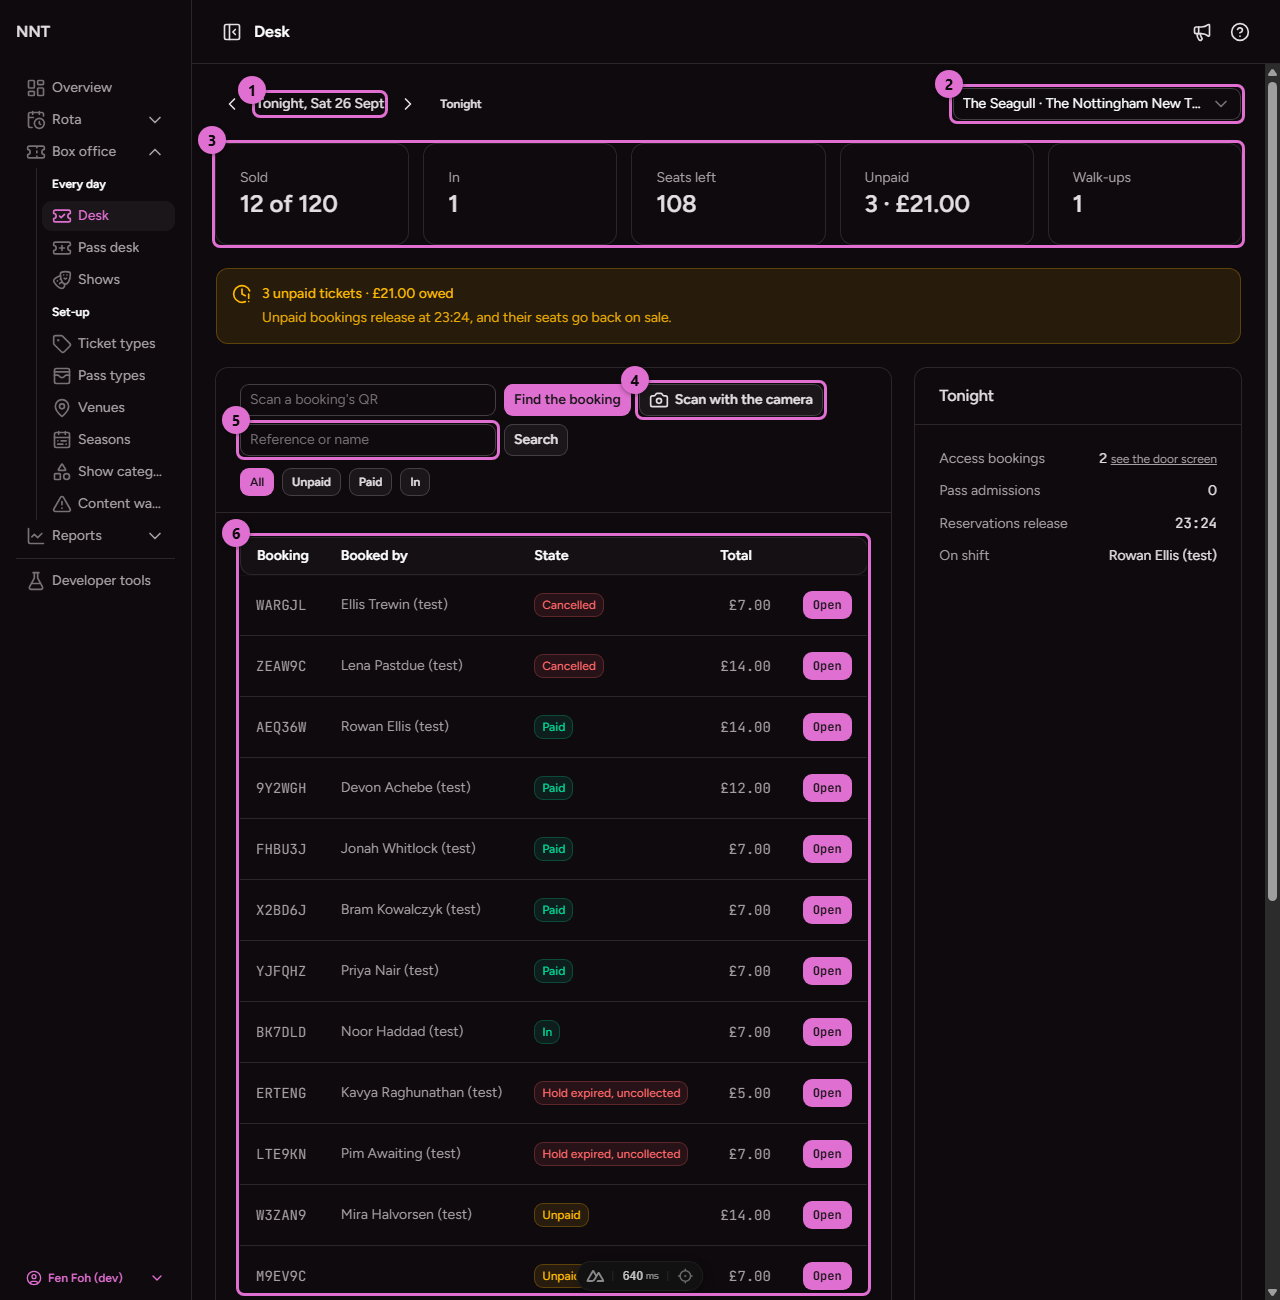
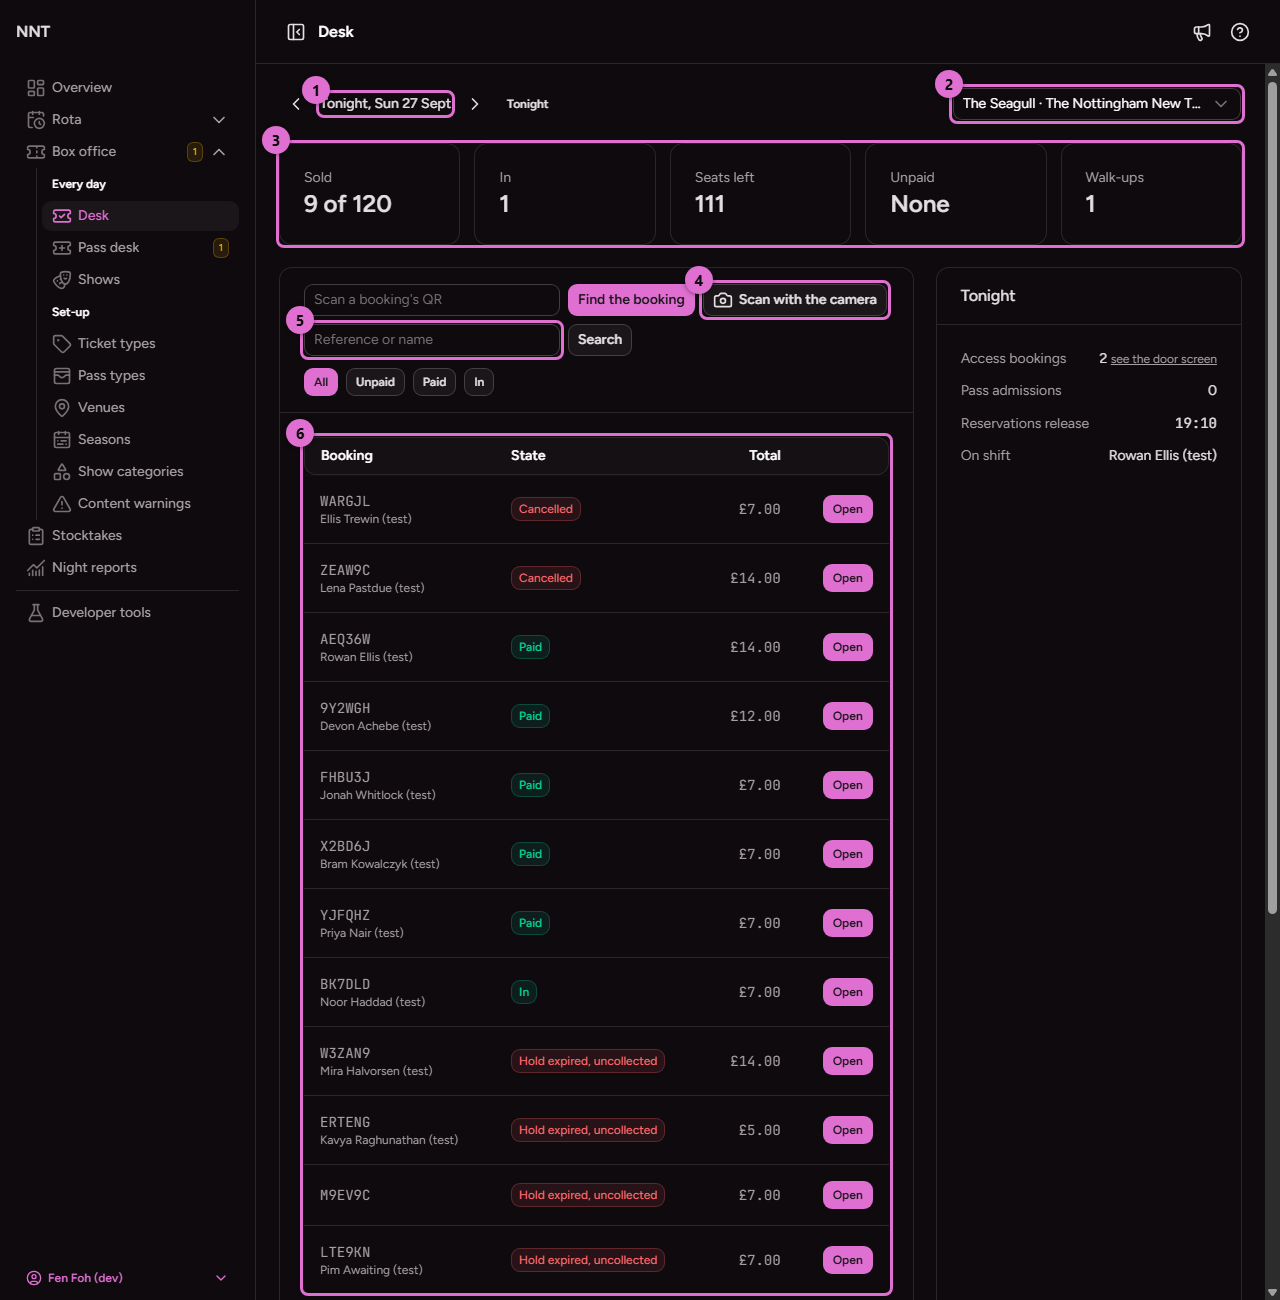
Move the desk total under the state on a phone, and retake the desk picture with every Open in view

diff --git a/app/pages/box-office/desk.vue b/app/pages/box-office/desk.vue
@@ -494,8 +494,8 @@ const resultColumns: TableColumn<SearchRow>[] = [
     meta: { class: { td: 'whitespace-normal' } },
     cell: ({ row }) => h('div', {}, [
       h('div', { class: 'font-mono' }, row.original.reference),
-      // While the table is narrow the booker is hidden: shown here instead, so the state, the total
-      // and Open stay in view beside the Tonight card and on a phone (K-123 criterion 10, issue 922).
+      // While the table is narrow its lesser columns carry over into the cells before them, so Open
+      // stays in view beside the Tonight card and on a phone (K-123 criterion 10, issue 922).
       h('div', { class: `${SHOW_BELOW_TABLE_2XL} text-xs text-muted` }, row.original.bookerName),
     ]),
   },
@@ -509,16 +509,19 @@ const resultColumns: TableColumn<SearchRow>[] = [
     id: 'status',
     header: 'State',
     meta: { class: { td: 'whitespace-normal' } },
-    // A pass booking owes nothing, so it reads as settled rather than unpaid (issue 1390).
-    cell: ({ row }) => byPass(row.original)
-      ? h(UBadge, { color: 'success', variant: 'subtle', ...WRAPPING_BADGE }, () => BY_PASS)
-      : h(UBadge, {
-          color: statusColor[row.original.status] ?? 'neutral',
-          variant: 'subtle',
-          ...WRAPPING_BADGE,
-        }, () => saysDeskStatus(row.original.status)),
+    cell: ({ row }) => h('div', {}, [
+      // A pass booking owes nothing, so it reads as settled rather than unpaid (issue 1390).
+      byPass(row.original)
+        ? h(UBadge, { color: 'success', variant: 'subtle', ...WRAPPING_BADGE }, () => BY_PASS)
+        : h(UBadge, {
+            color: statusColor[row.original.status] ?? 'neutral',
+            variant: 'subtle',
+            ...WRAPPING_BADGE,
+          }, () => saysDeskStatus(row.original.status)),
+      h('div', { class: `${SHOW_BELOW_TABLE_MD} mt-1 font-mono text-xs text-muted` }, saysPrice(row.original.totalPence)),
+    ]),
   },
-  { id: 'total', header: 'Total', meta: RIGHT_ALIGNED, cell: ({ row }) => saysPrice(row.original.totalPence) },
+  { id: 'total', header: 'Total', meta: RIGHT_ALIGNED_HIDE_BELOW_TABLE_MD, cell: ({ row }) => saysPrice(row.original.totalPence) },
   {
     id: 'act',
     header: ACTIONS_HEADER,

diff --git a/app/utils/responsive-table.ts b/app/utils/responsive-table.ts
@@ -18,6 +18,11 @@ export const RIGHT_ALIGNED_HIDE_BELOW_SM = { class: { th: `${HIDE_BELOW_SM} text
 // `@container`, and the primary cell's SHOW_BELOW_TABLE_2XL line carries what the column said.
 export const HIDE_BELOW_TABLE_2XL = 'hidden @2xl:table-cell'
 export const SHOW_BELOW_TABLE_2XL = '@2xl:hidden'
+export const HIDE_BELOW_TABLE_MD = 'hidden @md:table-cell'
+export const SHOW_BELOW_TABLE_MD = '@md:hidden'
+
+// A figure column a phone-width table drops, its figure carried by another cell's SHOW_BELOW_TABLE_MD line.
+export const RIGHT_ALIGNED_HIDE_BELOW_TABLE_MD = { class: { th: `${HIDE_BELOW_TABLE_MD} text-right`, td: `${HIDE_BELOW_TABLE_MD} text-right whitespace-nowrap font-mono` } }
 
 // A badge that can run to a sentence wraps inside its cell rather than widening the table.
 export const WRAPPING_BADGE = { class: 'max-w-full', ui: { label: 'whitespace-normal' } }

diff --git a/content/docs/04.box-office/1.desk.md b/content/docs/04.box-office/1.desk.md
@@ -102,8 +102,8 @@ The desk opens on tonight, with the previous and the next night an arrow either 
    pass**) and what it currently costs. Press **Open** on one; it is the only **Open** on the
    card, and it shows it is working while the booking is read. Where the card is narrow, beside
    **Tonight** on a laptop or on a phone, the booker's name sits under the reference rather than
-   in a column of its own and a long state wraps onto a second line, so every row keeps its
-   **Open** in view without scrolling sideways.
+   in a column of its own and a long state wraps onto a second line; on a phone the total sits
+   under the state too. Every row keeps its **Open** in view without scrolling sideways.
 
 An empty list says which kind of empty it is. Before a search has run, it says **Scan a booking's
 code, or search by reference or name.** A performance with no bookings at all says **No bookings
